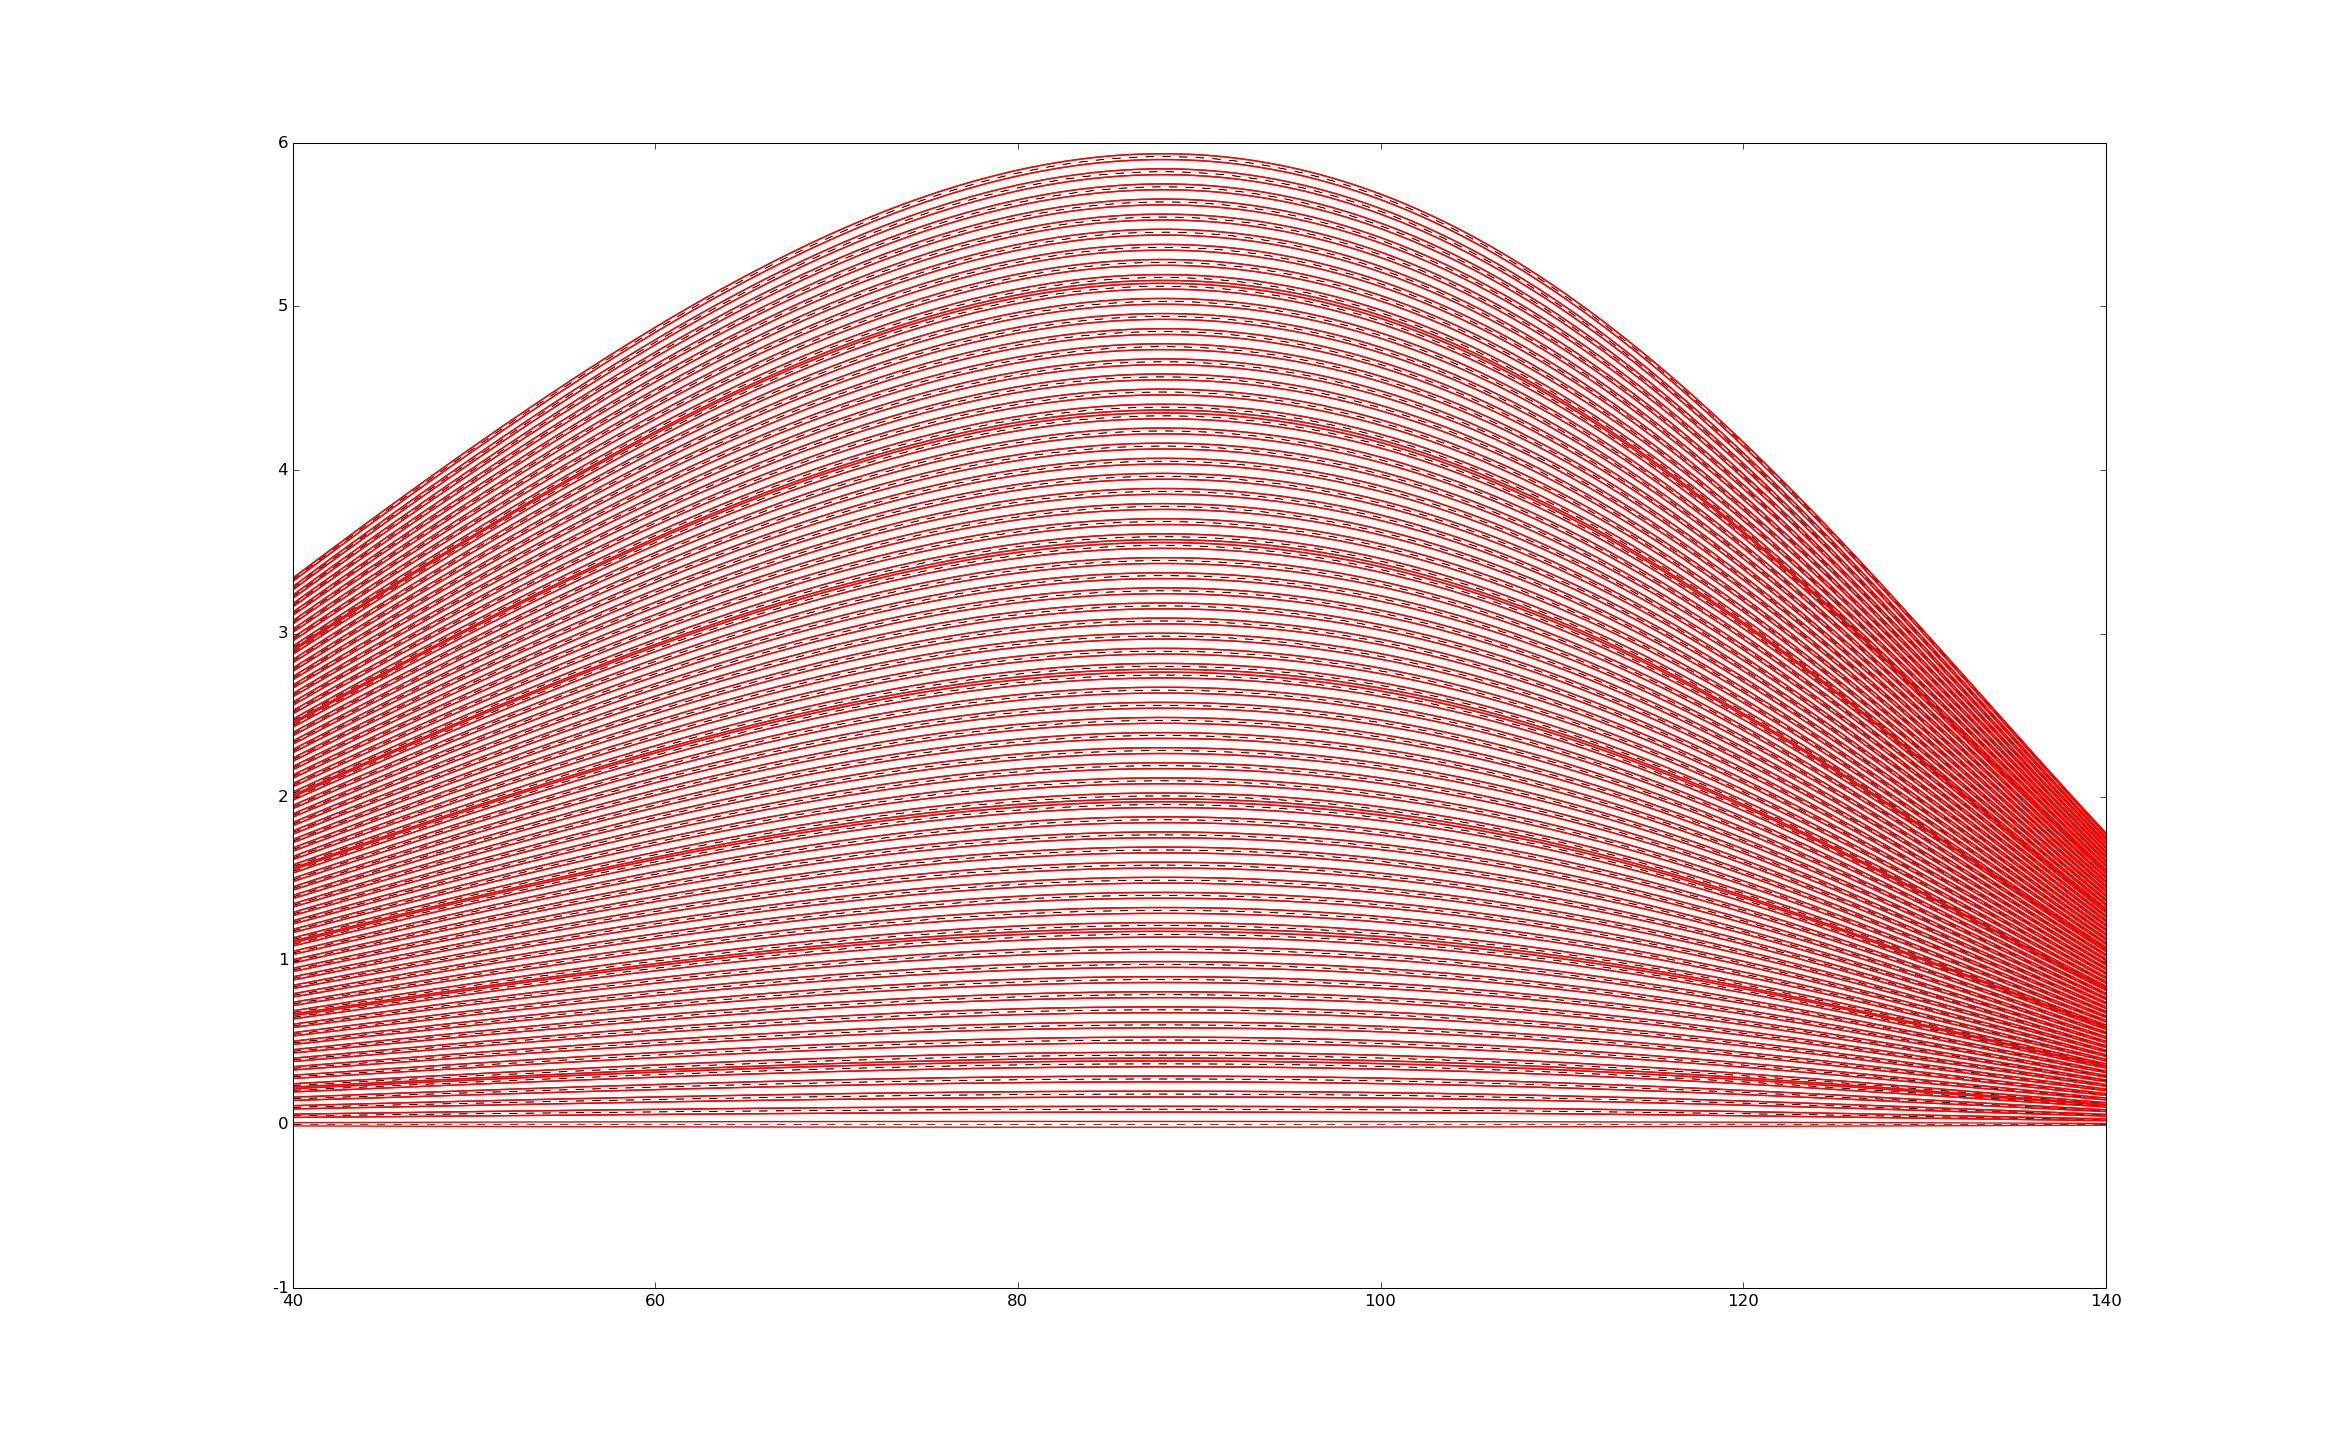
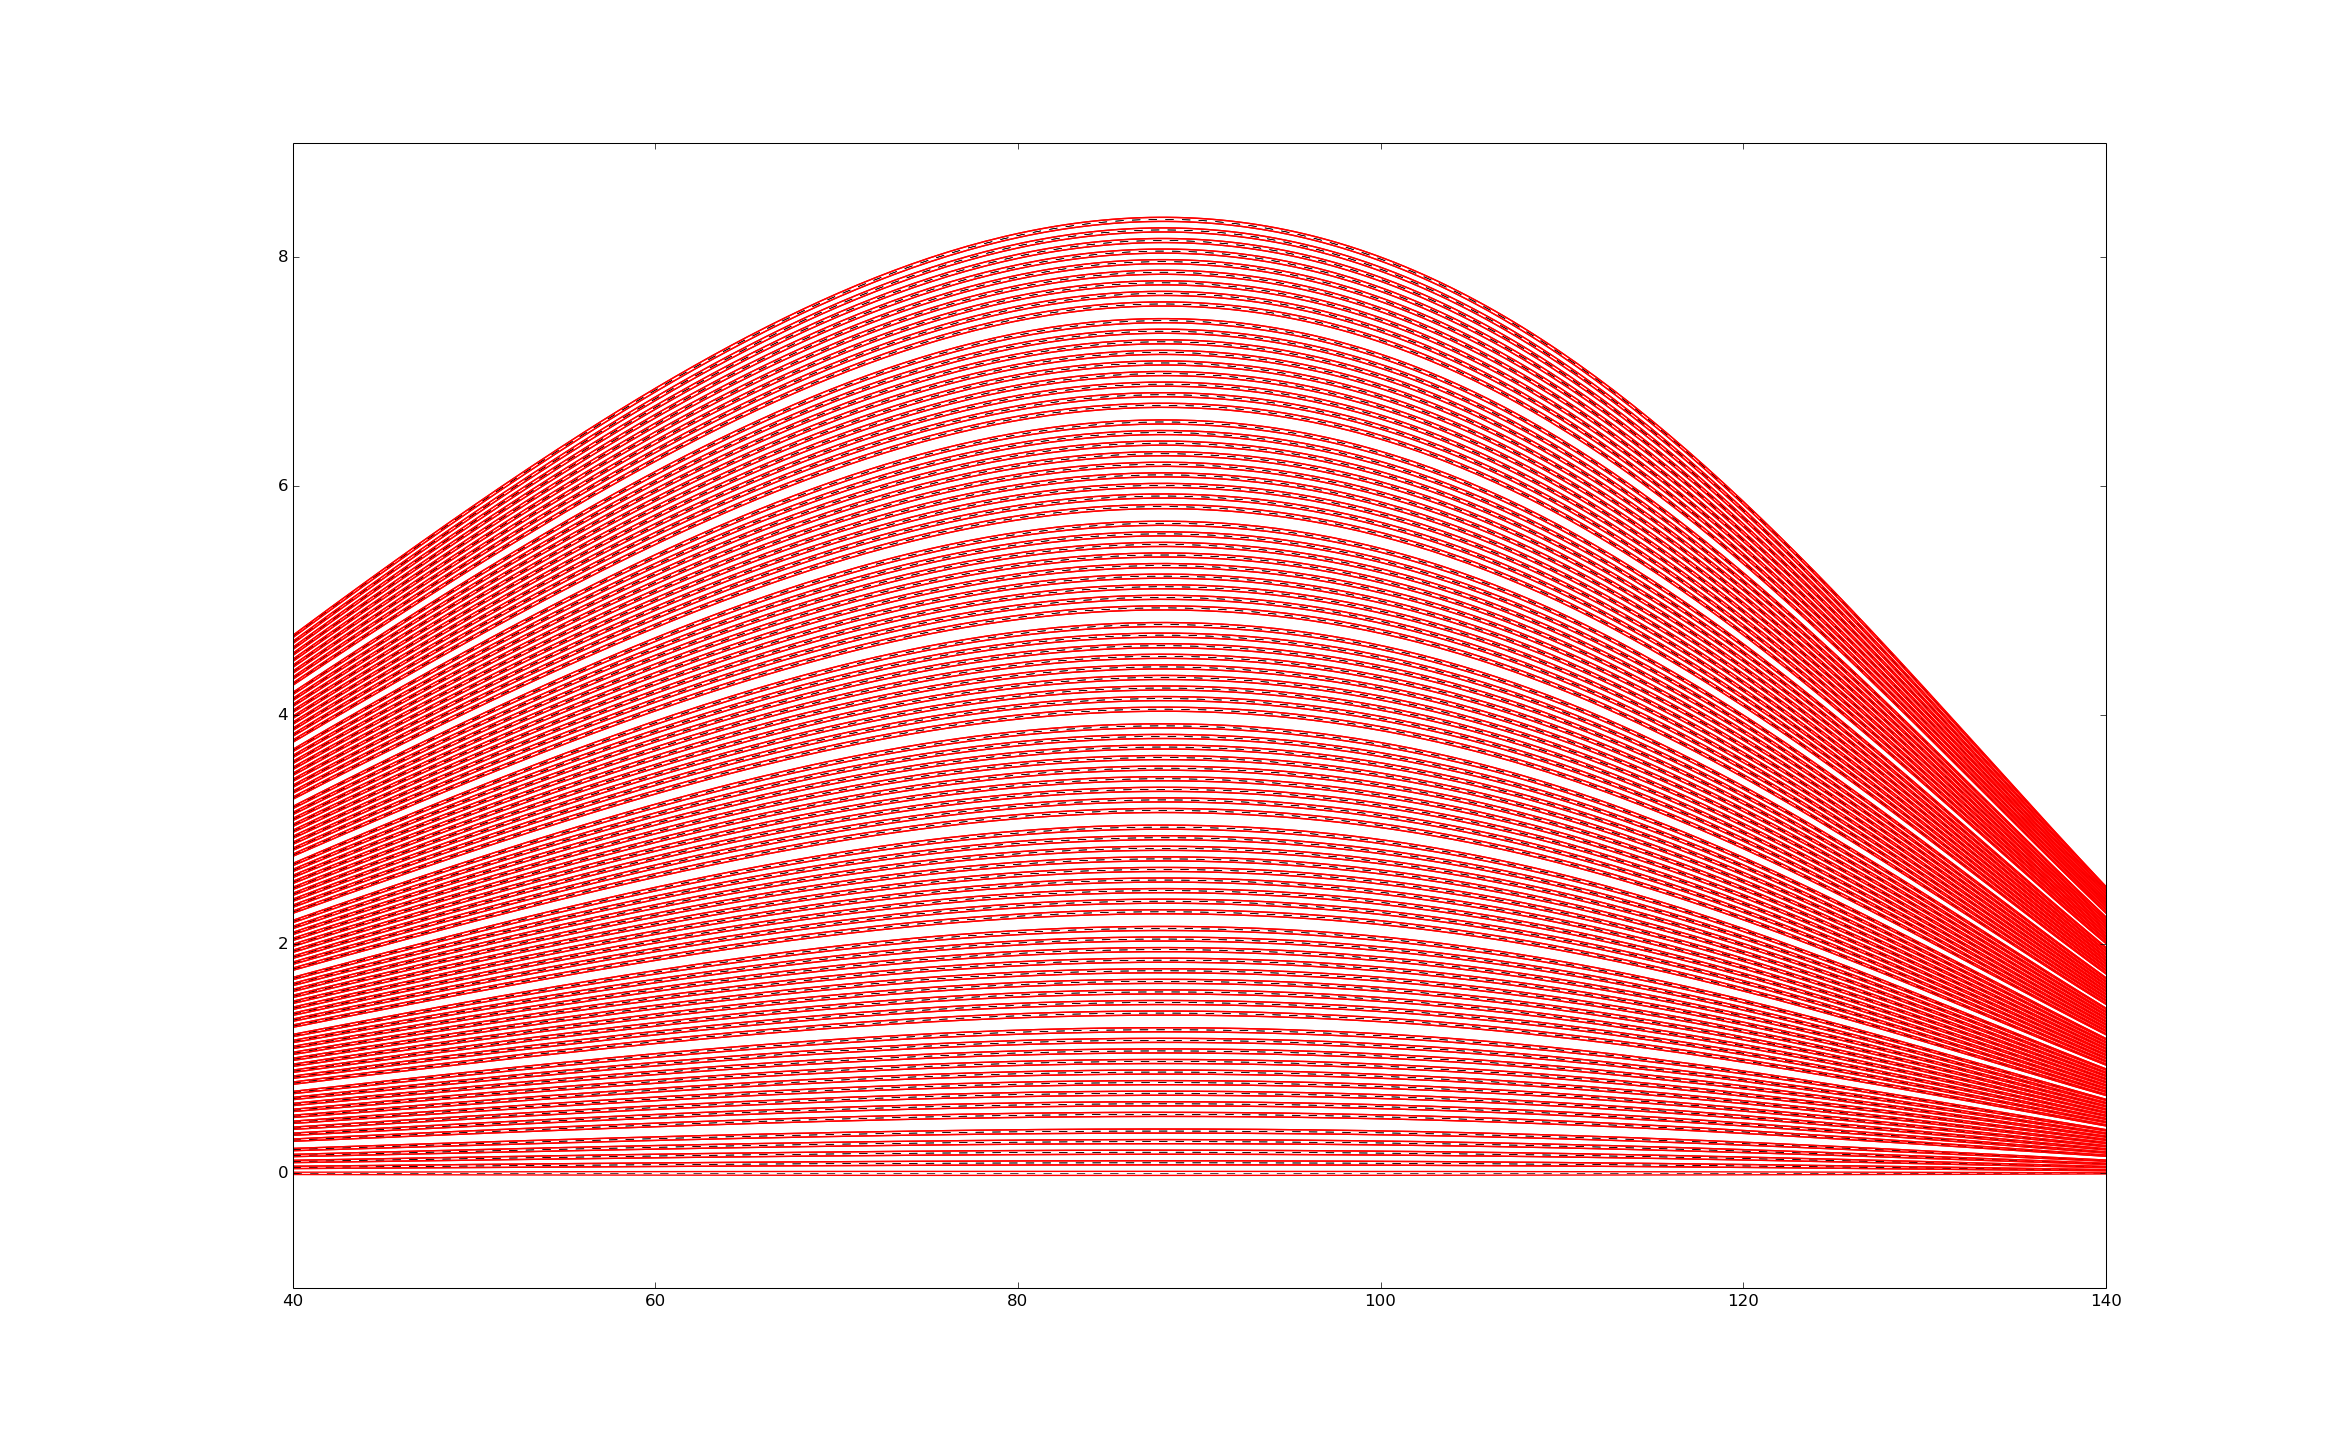
Add mid-run example pictures for a 73k capillaries

diff --git a/examples/basic.py b/examples/basic.py
@@ -5,6 +5,7 @@ _threads = 1
 import numpy as np
 import multiprocessing as mp
 import os
+from datetime import datetime as dt
 import itertools
 
 import xrt.runner as xrtr
@@ -114,8 +115,8 @@ class MultipleCapillariesFittedSource(object):
         # the usage of class specific methods within the run_process
         self.beamLine.self = self
 
-        # TODO Make this adjustable
-        self.savefolder = 'data'
+        # TODO Make this auto-adjustable
+        self.savefolder = 'data_b'
 
         # Set of OE objects capable of multiple_reflections
         self.capillaries = []
@@ -226,10 +227,11 @@ class MultipleCapillariesFittedSource(object):
     @staticmethod
     def local_process(beamLine, shineOnly1stSource=False):
         """ raycing.run_process must be overriden globally """
-        # Iterate over the capillaries
-        # and shine() into each of them
+	# Debug info
         process_id = mp.current_process()._identity[0]
-        print "pid: ", process_id
+	debug_start = 'Prcoess {} started at: {}.'
+        print debug_start.format(process_id , dt.now())
+
         for it, cap in enumerate(beamLine.capillaries):
             hitpoint = [cap.entrance_x(),
                         cap.entrance_y(),
@@ -251,6 +253,14 @@ class MultipleCapillariesFittedSource(object):
             # Add header only when creating the file
             header_needed = not os.path.isfile(filepath)
             frame.to_csv(filepath, mode='a', header=header_needed)
+
+	    if it%1000 is 0:
+		debug_inside = 'Capillary {} done at process {} in time {}'
+		print debug_inside.format(it, process_id, dt.now())
+
+	# More debug
+	debug_finish = 'Prcoess {} finished at: {}.'
+        print debug_finish.format(process_id, dt.now())
 
         out = {}
         return out

diff --git a/main.py b/main.py
@@ -28,8 +28,8 @@ def create_lens():
     lens = lp.PolyCapillaryLens(y_settings=y_settings,\
                                 D_settings=D_settings)
     structure = st.HexStructure(rIn = 0.01,\
-                                nx_capillary = 3,\
-                                ny_bundle = 3)
+                                nx_capillary = 19,\
+                                ny_bundle = 19)
     lens.set_structure(structure)
 
     return lens
@@ -50,9 +50,9 @@ if __name__ == '__main__':
     setup = eb.MultipleCapillariesFittedSource()
     setup.set_capillaries(caps)
     # Number of photons per run per capillary
-    setup.set_nrays(50)
+    setup.set_nrays(20)
     # Number of runs
-    setup.set_repeats(8)
+    setup.set_repeats(48)
 
     setup.run_it()
 
